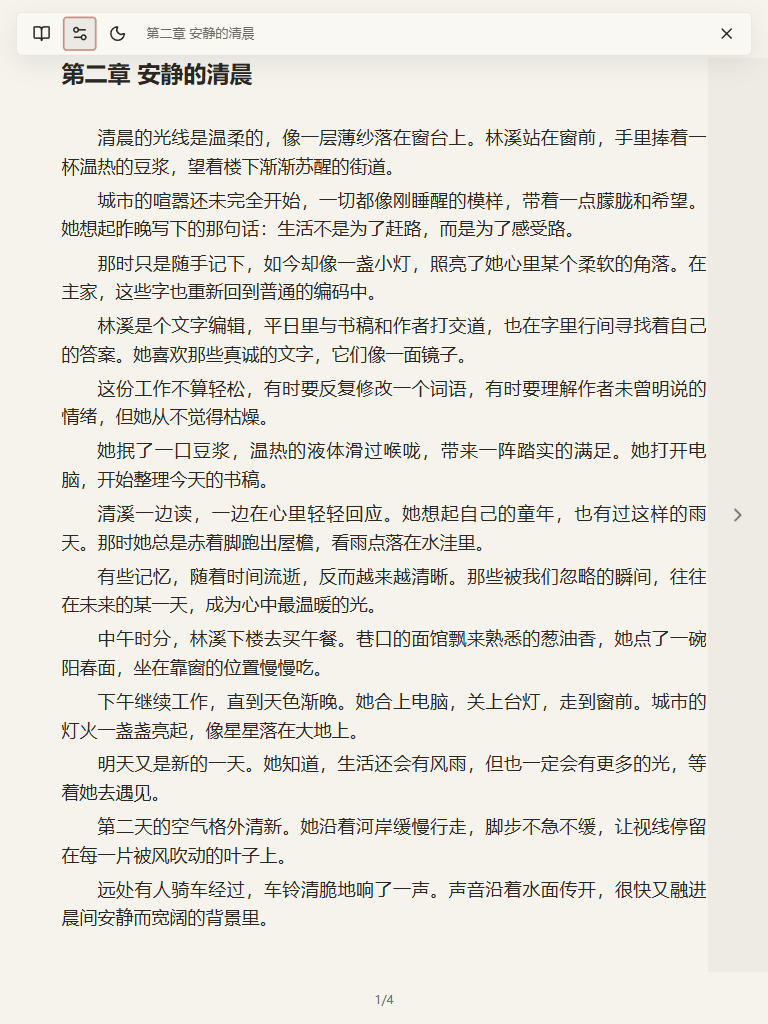
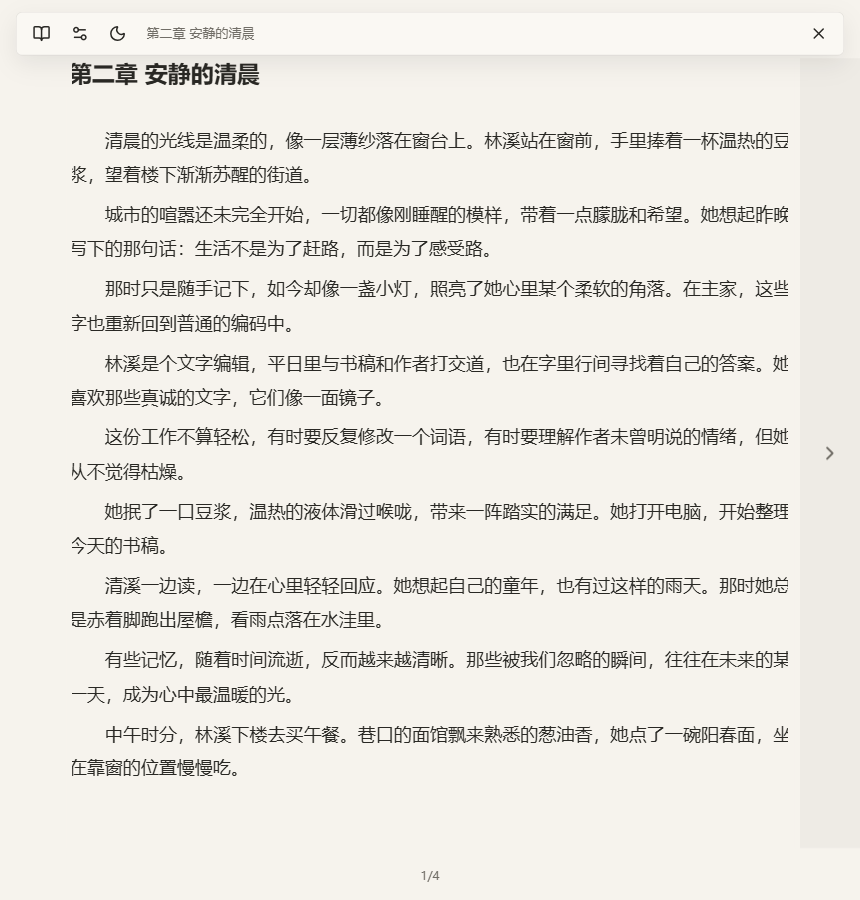
Regenerate the README screenshots, and script it
Several of the committed shots were captured by hand partway through
development and still showed a since-fixed bug: the rightmost glyph of every
line was sliced in half at the column edge. Nothing recorded which build
produced which file, so they could not be re-made — the whole set is now
generated by tools/make-screenshots.py from the current build instead.

Adds a dark-theme shot, since the light/dark parity was described in the
README but never shown.

The script intercepts the reader request with Playwright's route handler and
fulfills it from the test fixture. Serving the fixture over a local port with
--host-resolver-rules does not work: the real site is reachable and
HSTS-pinned, so the browser loads the live page and the fixture never
appears. That is recorded in the script's docstring.

diff --git a/tools/make-screenshots.py b/tools/make-screenshots.py
@@ -1,0 +1,130 @@
+"""Regenerate the README screenshots from the current build, reproducibly.
+
+The previous shots in docs/screenshots/ were captured by hand mid-development;
+several showed a since-fixed bug where the rightmost glyph of every line was
+sliced in half, and nothing recorded which build produced which file, so they
+could not be re-made. This script exists so they can.
+
+The extension only activates on https://fanqienovel.com/reader/*, so rather
+than touching the network, the request is intercepted with Playwright's route
+handler and fulfilled from tests/fixtures/fanqie-reader.html. (Do NOT try to
+do this with --host-resolver-rules and a self-signed cert: the real site is
+reachable and HSTS-pinned, so the browser cheerfully loads the live page
+instead and the fixture never appears.) The fixture is the project's own
+authored sample text, so no published work appears in any shipped screenshot.
+
+    npm run build && python tools/make-screenshots.py
+
+Requires playwright with chromium installed.
+"""
+
+from __future__ import annotations
+
+import shutil
+import tempfile
+from pathlib import Path
+
+from playwright.sync_api import sync_playwright
+
+ROOT = Path(__file__).resolve().parent.parent
+EXT = ROOT / ".output" / "chrome-mv3"
+FIXTURE = ROOT / "tests" / "fixtures" / "fanqie-reader.html"
+OUT = ROOT / "docs" / "screenshots"
+
+URL = "https://fanqienovel.com/reader/101"
+WIDE = {"width": 1600, "height": 900}
+NARROW = {"width": 860, "height": 900}
+
+
+def main() -> int:
+    if not EXT.exists():
+        print(f"Build first: {EXT} not found (npm run build)")
+        return 1
+
+    html = FIXTURE.read_text(encoding="utf-8")
+    profile = Path(tempfile.mkdtemp(prefix="tomato-shots-profile-"))
+    OUT.mkdir(parents=True, exist_ok=True)
+
+    try:
+        with sync_playwright() as p:
+            ctx = p.chromium.launch_persistent_context(
+                user_data_dir=str(profile),
+                headless=False,  # MV3 content scripts need a real browser
+                viewport=WIDE,
+                args=[
+                    f"--disable-extensions-except={EXT}",
+                    f"--load-extension={EXT}",
+                ],
+            )
+
+            # Serve the fixture for the reader page; block everything else so
+            # no request reaches the real site.
+            ctx.route(
+                "**/*",
+                lambda route: route.fulfill(
+                    status=200,
+                    content_type="text/html; charset=utf-8",
+                    body=html,
+                )
+                if "fanqienovel.com/reader/" in route.request.url
+                else route.abort(),
+            )
+
+            page = ctx.pages[0] if ctx.pages else ctx.new_page()
+            page.goto(URL, wait_until="domcontentloaded")
+            page.wait_for_selector(".article", timeout=15000)
+            page.wait_for_timeout(1800)  # settle pagination
+
+            def shot(name: str) -> None:
+                page.wait_for_timeout(600)
+                page.screenshot(path=str(OUT / f"{name}.png"))
+                print(f"  docs/screenshots/{name}.png")
+
+            def reveal_controls() -> None:
+                # Controls hide until the pointer enters the top edge sensor.
+                page.mouse.move(WIDE["width"] // 2, 3)
+                page.wait_for_timeout(500)
+
+            # 1. the two-column spread, controls idle
+            page.mouse.move(WIDE["width"] // 2, WIDE["height"] // 2)
+            shot("reader-spread")
+
+            # 2. directory drawer
+            reveal_controls()
+            page.click('[aria-label="目录"]')
+            shot("directory")
+            page.click('[aria-label="关闭目录"]')
+            page.wait_for_timeout(400)
+
+            # 3. typography / theme panel
+            reveal_controls()
+            page.click('[aria-label="显示设置"]')
+            shot("settings")
+            page.keyboard.press("Escape")
+            page.wait_for_timeout(400)
+
+            # 4. dark theme, showing light/dark parity
+            reveal_controls()
+            page.click('[aria-label="切换深色"]')
+            page.wait_for_timeout(700)
+            page.mouse.move(WIDE["width"] // 2, WIDE["height"] // 2)
+            shot("reader-dark")
+            reveal_controls()
+            page.click('[aria-label="切换浅色"]')
+            page.wait_for_timeout(500)
+
+            # 5. narrow viewport falls back to one column
+            page.mouse.move(WIDE["width"] // 2, WIDE["height"] // 2)
+            page.set_viewport_size(NARROW)
+            page.wait_for_timeout(1600)
+            shot("narrow-fallback")
+
+            ctx.close()
+    finally:
+        shutil.rmtree(profile, ignore_errors=True)
+
+    return 0
+
+
+if __name__ == "__main__":
+    raise SystemExit(main())

diff --git a/README.md b/README.md
@@ -26,9 +26,11 @@ Edge / Chromium Manifest V3 扩展。
 - **连续跨章** —— 章节之间直接翻过去，没有确认页；只预取相邻的一章。
 - **安静的界面** —— 闲置时屏幕上几乎只有正文和一个页码。控制层靠近边缘才出现。App 下载二维码、推广、打赏入口一律不呈现。
 
-| 目录抽屉 | 排版与主题 | 窄窗口回退 |
-|---|---|---|
-| ![目录](docs/screenshots/directory.png) | ![设置](docs/screenshots/settings.png) | ![窄屏](docs/screenshots/narrow-fallback.png) |
+| 目录抽屉 | 排版与主题 |
+|---|---|
+| ![目录](docs/screenshots/directory.png) | ![设置](docs/screenshots/settings.png) |
+| **深色主题** | **窄窗口回退单栏** |
+| ![深色](docs/screenshots/reader-dark.png) | ![窄屏](docs/screenshots/narrow-fallback.png) |
 
 可搜索的全高目录会标出当前章节；排版设置提供快捷预设与可展开的细调；深浅色主题都按护眼取值，没有纯黑纯白的刺眼对比。
 
